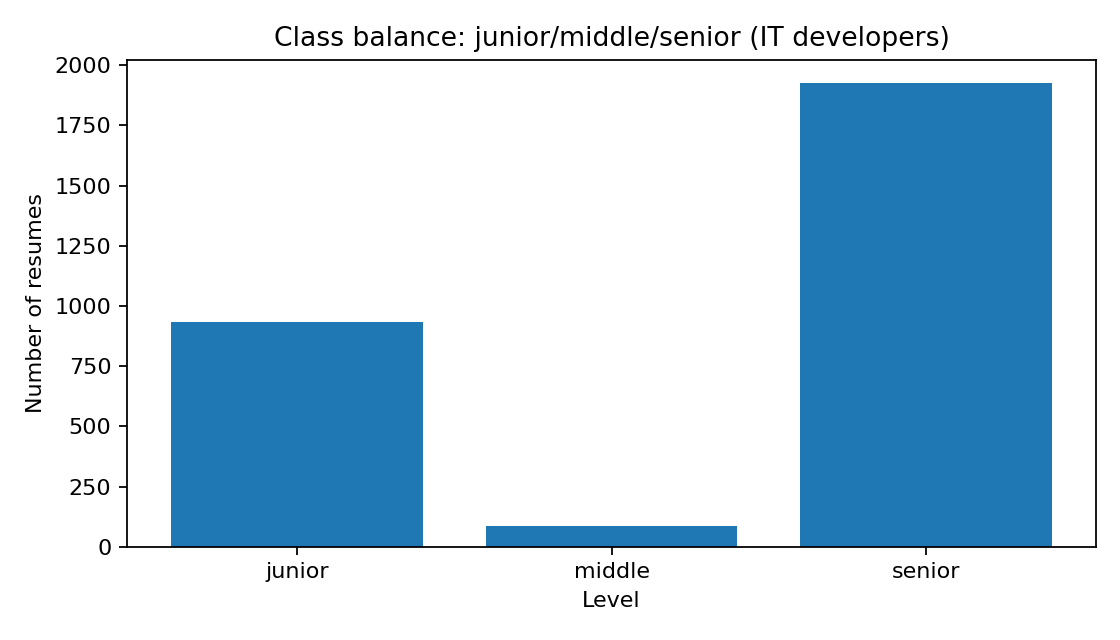
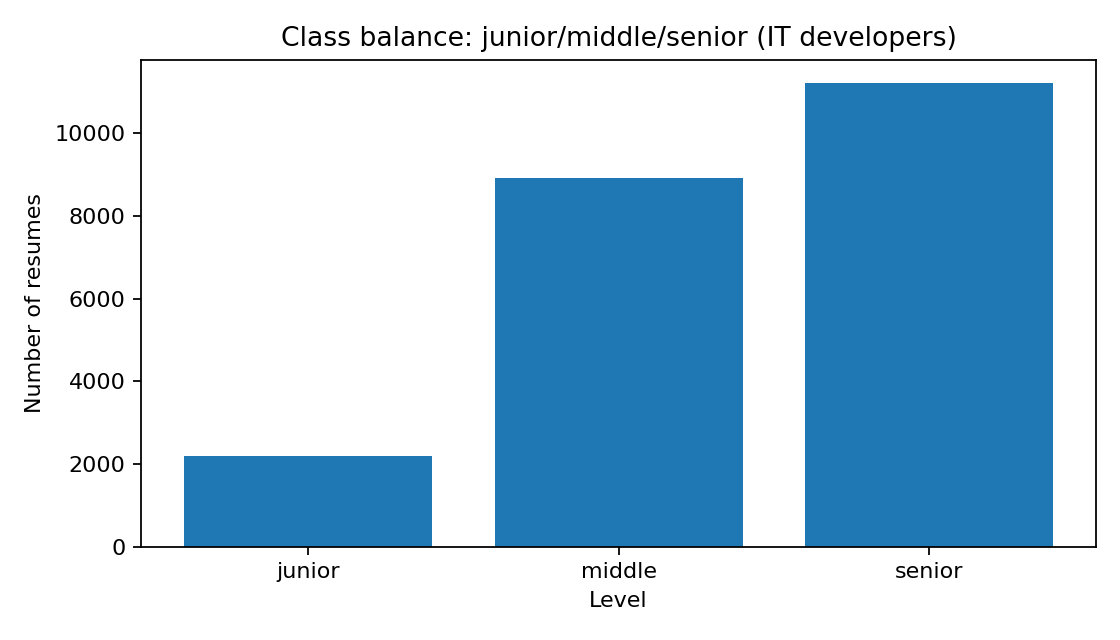
Work in progress

diff --git a/7_classificator/labelling.py b/7_classificator/labelling.py
@@ -21,16 +21,21 @@ def join_position_text(df: pd.DataFrame) -> pd.Series:
     return (df["position"].map(_normalize_text) + " " + df["last_position"].map(_normalize_text)).str.strip()
 
 
-_INCLUDE_PATTERNS: Final[list[str]] = [
+# --- IT developer filter ------------------------------------------------------
+# Goal: catch developers + engineering managers in IT, even if title is generic like "руководитель отдела".
+# Trade-off: heuristic, may include some non-dev IT roles (acceptable for PoC).
+
+_DEV_SIGNAL_PATTERNS: Final[list[str]] = [
+    # English dev signals
     r"\bdeveloper\b",
     r"\bsoftware\b",
-    r"\bengineer\b",
     r"\bprogrammer\b",
     r"\bbackend\b",
     r"\bfrontend\b",
     r"\bfront[- ]?end\b",
     r"\bfull[- ]?stack\b",
     r"\bweb\b",
+    # Tech keywords (optional, but helpful)
     r"\bpython\b",
     r"\bjava\b",
     r"\bjavascript\b",
@@ -41,60 +46,126 @@ _INCLUDE_PATTERNS: Final[list[str]] = [
     r"\b\.net\b",
     r"\bios\b|\bandroid\b",
     r"\b1c\b|\b1с\b",
+    # Russian dev signals
     r"\bразработ",
     r"\bпрограммист",
-    r"\bинженер[- ]?программист",
+    r"\bинженер\b",
     r"\bвеб[- ]?разработ",
+    r"\bинженер[- ]?программист",
 ]
 
-_EXCLUDE_PATTERNS: Final[list[str]] = [
-    r"\bqa\b",
-    r"\bтестир",
-    r"\banalyst\b|\bаналитик\b",
-    r"\bpm\b|\bproduct\b|\bproject\b|\bменеджер\b",
-    r"\bdesigner\b|\bдизайнер\b",
+_MANAGER_SIGNAL_PATTERNS: Final[list[str]] = [
+    r"\bteam lead\b|\bтимлид\b|\bтим лид\b",
+    r"\btech lead\b",
+    r"\blead\b",
+    r"\bруководител",
+    r"\bначальник",
+    r"\bhead\b",
+    r"\bcto\b",
+    r"\bдиректор\b.*\bit\b|\bit\b.*\bдиректор\b",
+    r"\bруководител\b.*\bit\b|\bit\b.*\bруководител\b",
+    r"\bруководител\b.*\bразработ",
+    r"\bруководител\b.*\bинженер",
+]
+
+# Strong non-IT / non-dev exclusions. Keep this list focused to avoid throwing away legitimate roles.
+_NON_IT_EXCLUDE_PATTERNS: Final[list[str]] = [
+    r"\bhr\b|\bрекрутер\b|\bкадров\b",
+    r"\bбухгалтер\b|\baccountant\b",
+    r"\bюрист\b|\blawyer\b",
+    r"\bпродавец\b|\bsales\b",
+    r"\bмаркетолог\b|\bmarketing\b",
+    r"\bофис[- ]?менеджер\b",
+    r"\bводитель\b",
+    r"\bкладовщик\b",
+    r"\bмедсестра\b|\bврач\b",
+    r"\bучител\b|\bпреподавател\b",
+]
+
+# Optional: still exclude obvious non-developer IT roles if you want "developers only".
+# If you want to keep managers of IT-infra, remove sysadmin/devops exclusions.
+_NON_DEV_IT_EXCLUDE_PATTERNS: Final[list[str]] = [
+    r"\bqa\b|\bтестир",
     r"\bsupport\b|\bподдержк\b",
     r"\bадминистратор\b|\bsysadmin\b|\bsystem administrator\b",
-    r"\bdevops\b",
-    r"\bdata scientist\b|\bдата саентист\b",
+    r"\bdesigner\b|\bдизайнер\b",
+    r"\bproduct\b|\bproject\b|\bpm\b|\bменеджер\b(?!\s*по\s*разработ)",  # keep "manager of development" patterns
 ]
 
 
-def is_it_developer(position_text: str) -> bool:
-    """Heuristic filter: keep resumes that look like software developers."""
-    has_include = any(re.search(pat, position_text) for pat in _INCLUDE_PATTERNS)
-    has_exclude = any(re.search(pat, position_text) for pat in _EXCLUDE_PATTERNS)
-    return bool(has_include and not has_exclude)
+def _has_any(patterns: list[str], text: str) -> bool:
+    return any(re.search(pat, text) for pat in patterns)
 
+def has_dev_signal(position_text: str) -> bool:
+    """Return True if title contains clear developer/engineering signals."""
+    return _has_any(_DEV_SIGNAL_PATTERNS, position_text)
+
+
+def has_it_anchor(position_text: str) -> bool:
+    """Return True if title contains generic IT anchors (for managers/heads)."""
+    it_anchor_patterns = [
+        r"\bit\b",
+        r"\bинформационн",
+        r"\bразработ",
+        r"\bsoftware\b",
+        r"\bengineering\b",
+        r"\bразработка\b",
+        r"\bразработки\b",
+    ]
+    return _has_any(it_anchor_patterns, position_text)
+
+def is_it_developer_or_manager(position_text: str) -> bool:
+    """Broader heuristic: keep dev roles and engineering managers likely related to IT development."""
+    text = position_text
+
+    # First, drop clear non-IT roles
+    if _has_any(_NON_IT_EXCLUDE_PATTERNS, text):
+        return False
+
+    has_manager_signal = _has_any(_MANAGER_SIGNAL_PATTERNS, text)
+
+    # Exclude obvious non-dev IT roles only if there is no manager/dev signal.
+    # This prevents dropping e.g. "руководитель devops" if you consider it part of IT.
+    if _has_any(_NON_DEV_IT_EXCLUDE_PATTERNS, text) and not has_manager_signal and not has_dev_signal(text):
+        return False
+
+    return bool(has_dev_signal(text) or has_manager_signal)
+
+
+# --- Level labeling -----------------------------------------------------------
 
 _SENIOR_PATTERNS: Final[list[str]] = [
     r"\bsenior\b",
     r"\bсеньор\b",
+    r"\bсениор\b",
     r"\blead\b",
     r"\bteam lead\b|\bтимлид\b|\bтим лид\b",
     r"\btech lead\b",
     r"\bprincipal\b|\bstaff\b",
     r"\bархитектор\b",
-    r"\bведущ(ий|ая)\b",
+
 ]
 
 _MIDDLE_PATTERNS: Final[list[str]] = [
     r"\bmiddle\b",
     r"\bмидл\b",
+    r"\bмиддл\b",
     r"\bregular\b",
+    r"\bведущ(ий|ая)\b",
 ]
 
 _JUNIOR_PATTERNS: Final[list[str]] = [
     r"\bjunior\b",
     r"\bджуниор\b",
+    r"\bджун\b",
     r"\bintern\b|\bстажер\b|\bстажёр\b|\btrainee\b",
     r"\bмладш",
     r"\bначинающ",
 ]
 
 
-def label_level(position_text: str) -> str | None:
-    """Heuristic labeling of developer level from position text."""
+def label_level_from_title(position_text: str) -> str | None:
+    """Label dev level from title keywords only."""
     if any(re.search(pat, position_text) for pat in _SENIOR_PATTERNS):
         return "senior"
     if any(re.search(pat, position_text) for pat in _MIDDLE_PATTERNS):
@@ -104,11 +175,40 @@ def label_level(position_text: str) -> str | None:
     return None
 
 
+def label_level_hybrid(position_text: str, experience_years: object) -> str | None:
+    """Hybrid labeling: title first, fallback to experience_years with stricter rules.
+
+    Fallback is applied only for titles that look IT-related enough.
+    """
+    from_title = label_level_from_title(position_text)
+    if from_title is not None:
+        return from_title
+
+    # Fallback by experience only if the title has clear dev signal OR IT anchor.
+    # This prevents turning every "engineer/manager" into senior by experience.
+    if not (has_dev_signal(position_text) or has_it_anchor(position_text)):
+        return None
+
+    try:
+        exp = float(experience_years)
+    except (TypeError, ValueError):
+        return None
+
+    if np.isnan(exp):
+        return None
+
+    if exp < 1.5:
+        return "junior"
+    if exp < 7.0:
+        return "middle"
+    return "senior"
+
+
 def filter_it(df: pd.DataFrame) -> pd.DataFrame:
-    """Keep only IT developer resumes (heuristic by position text)."""
+    """Keep only IT dev/engineering-manager resumes (heuristic by position text)."""
     df_out = df.copy()
     df_out["position_text"] = join_position_text(df_out)
-    mask_it = df_out["position_text"].apply(is_it_developer)
+    mask_it = df_out["position_text"].apply(is_it_developer_or_manager)
     return df_out[mask_it].copy()
 
 
@@ -118,5 +218,10 @@ def add_level_label(df: pd.DataFrame) -> pd.DataFrame:
     if "position_text" not in df_out.columns:
         df_out["position_text"] = join_position_text(df_out)
 
-    df_out["dev_level"] = df_out["position_text"].apply(label_level)
+    # Hybrid labeling to keep more data
+    df_out["dev_level"] = df_out.apply(
+        lambda row: label_level_hybrid(row["position_text"], row.get("experience_years")),
+        axis=1,
+    )
+
     return df_out.dropna(subset=["dev_level"]).copy()

diff --git a/7_classificator/features.py b/7_classificator/features.py
@@ -18,6 +18,7 @@ DEFAULT_FEATURES = FeatureSpec(
         "age",
         "salary",
         "experience_years",
+        "education_last_year",
         "has_car",
         "relocation",
         "has_master",
